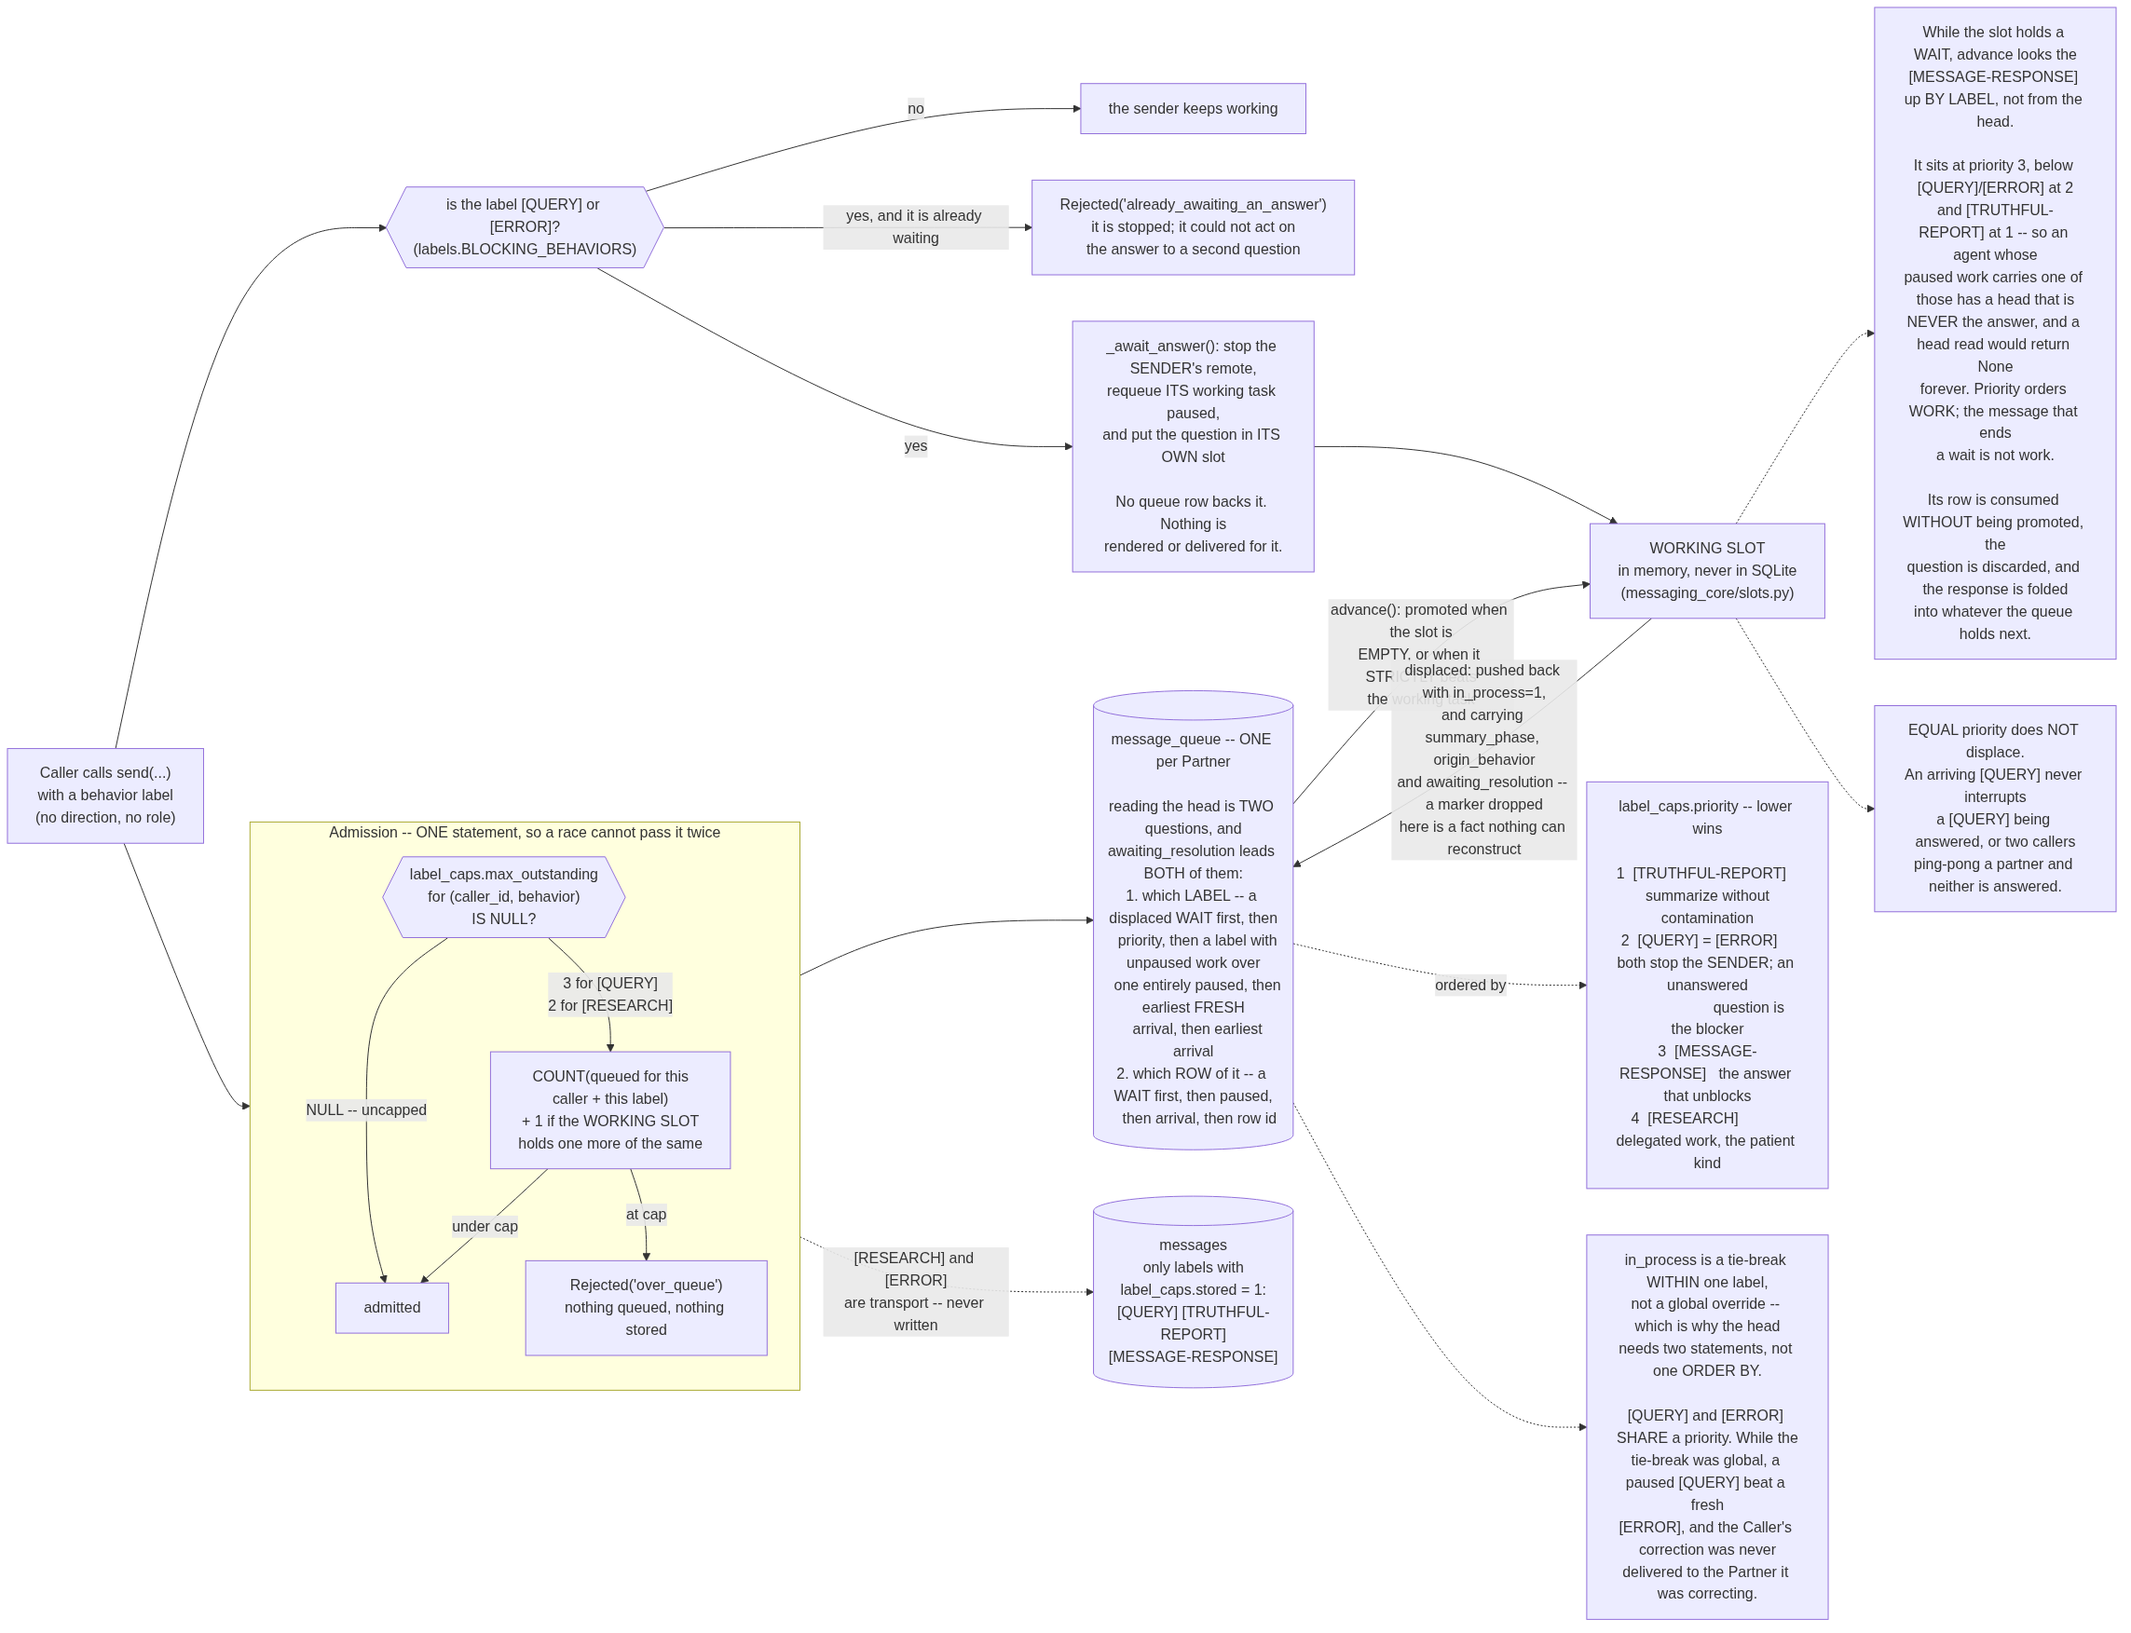
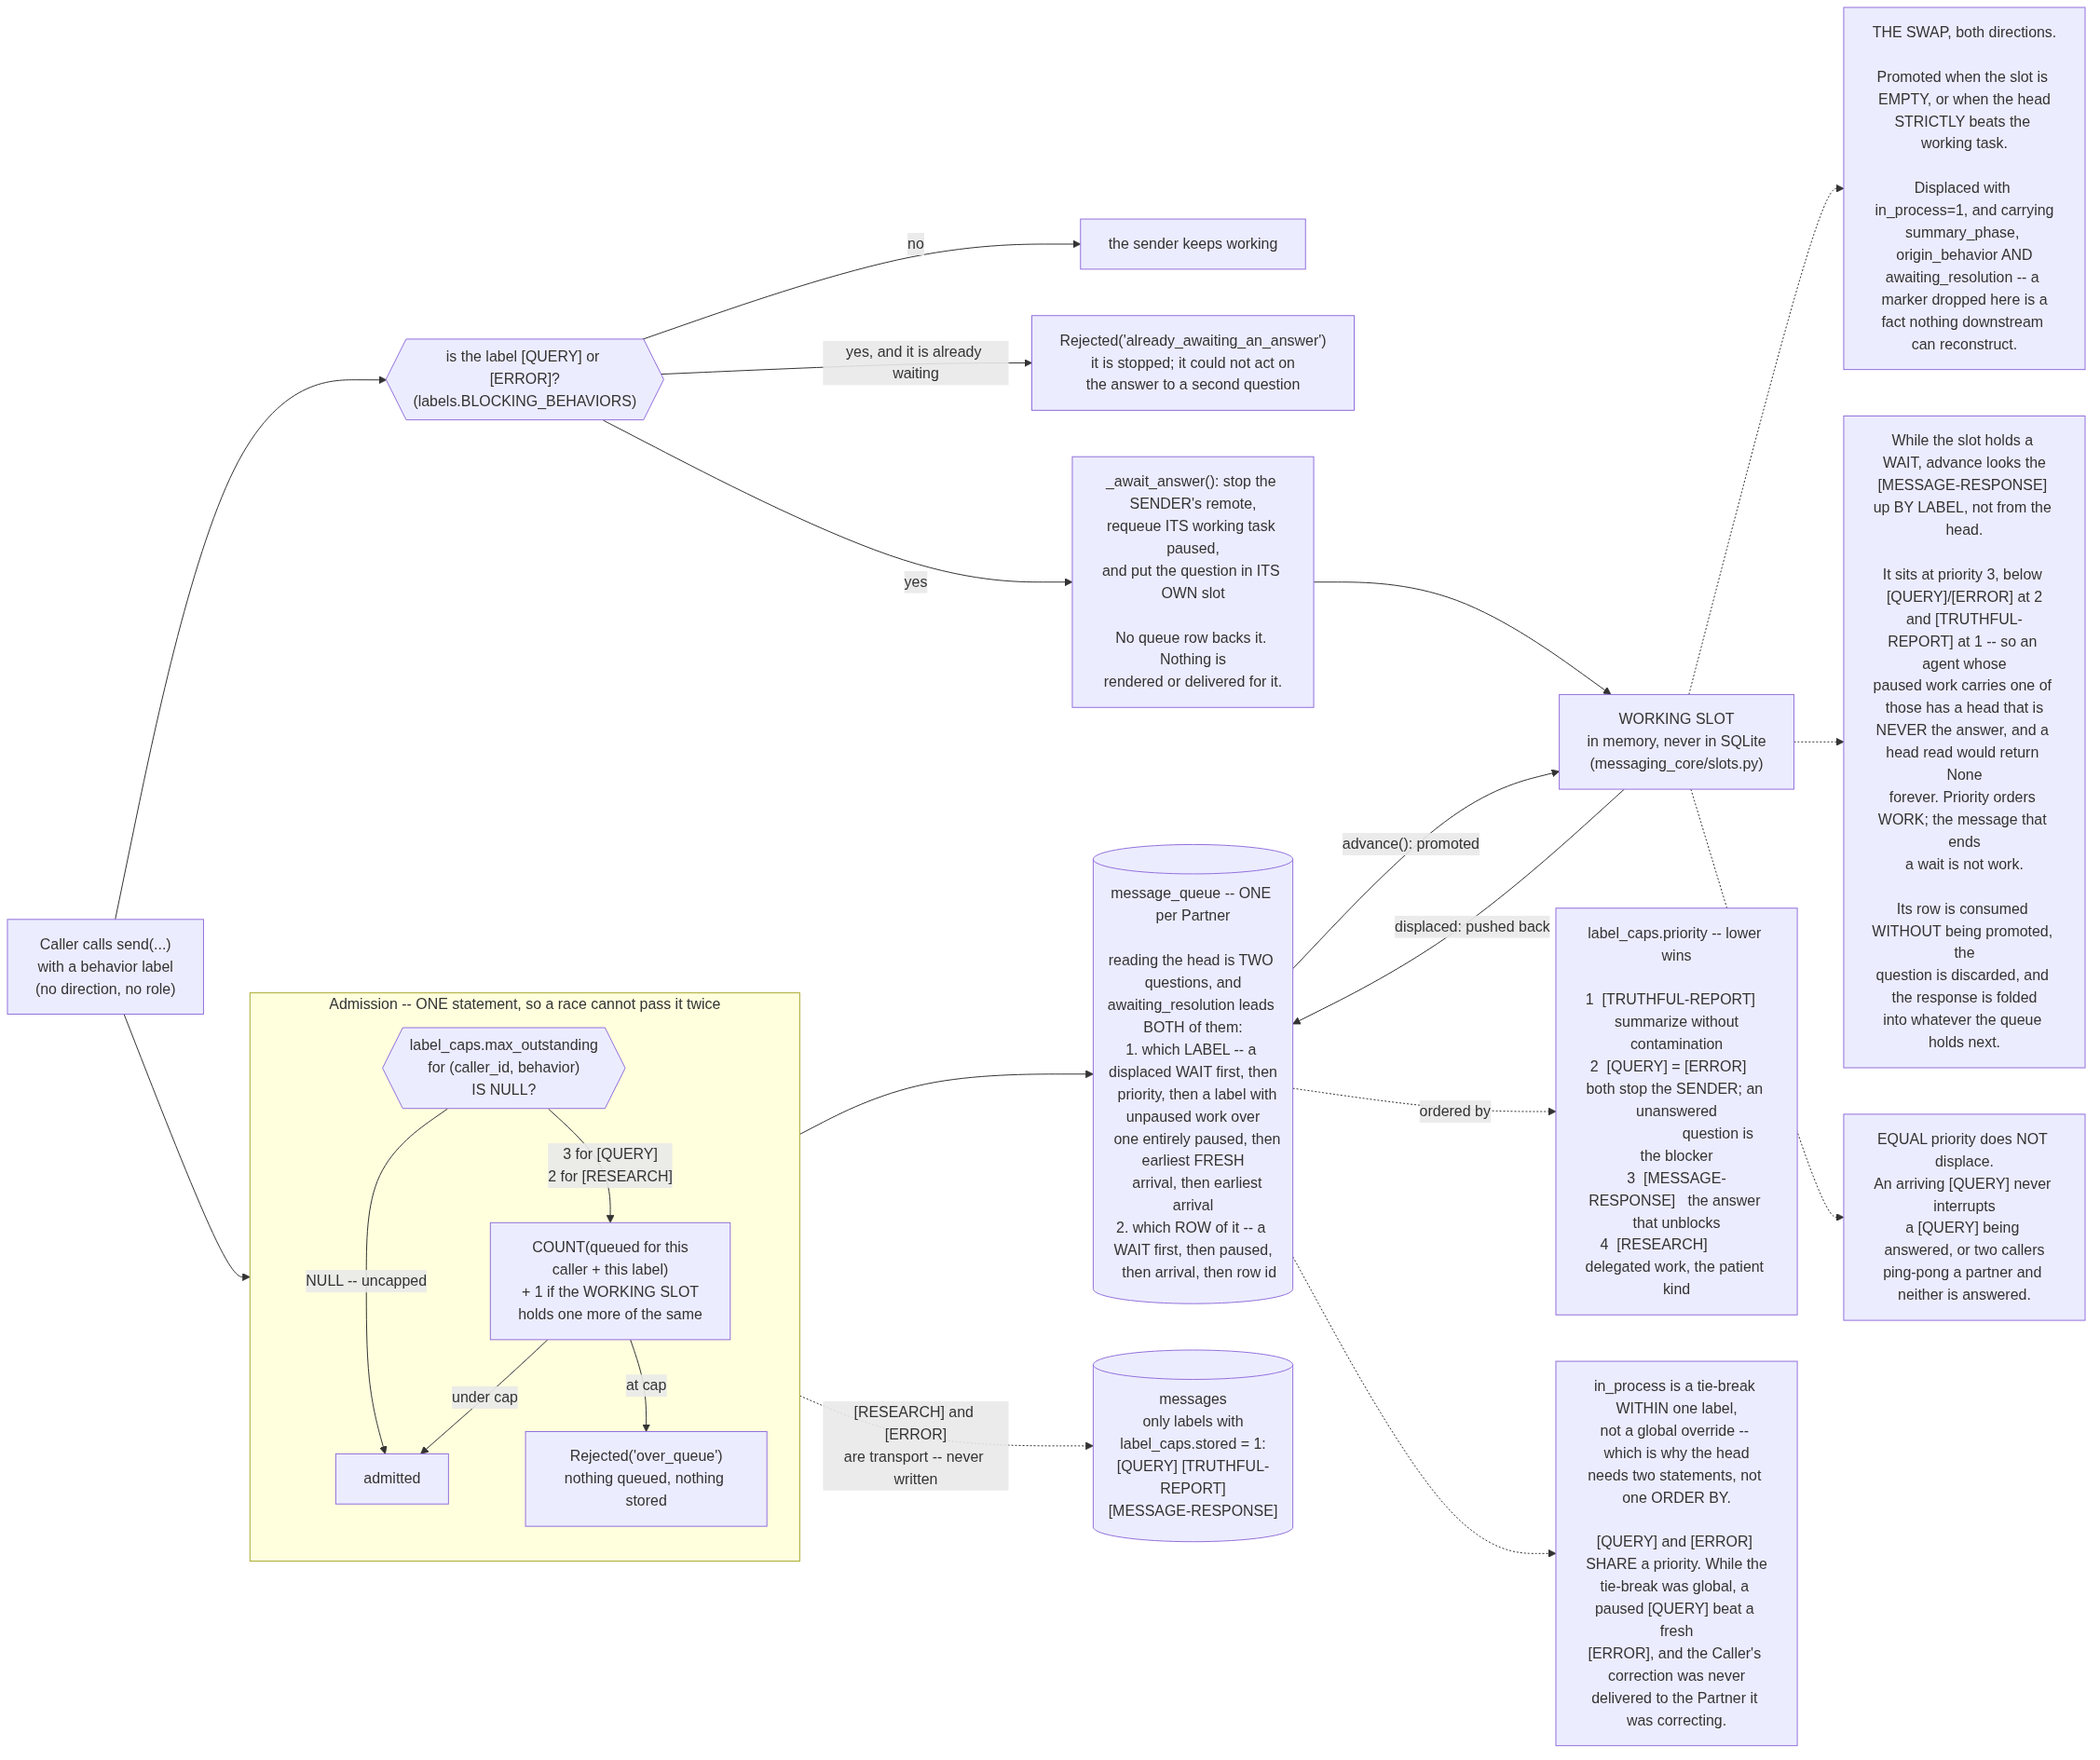
fix: render the vault's diagrams too, and stop a silent Mermaid corruption
Two problems, both found by the user asking why the vault still showed
[IDLE].

The vault has its OWN rendered copies of all ten diagrams, in
Attachments/, at 3x the repo's resolution -- and that is where they are
actually read. Every one was dated Aug 27, before the [IDLE] removal.
05-working-slot still showed "An [IDLE] here is a HOLD", send() /
interrupt_partner(), and "the reply for four of the six labels". I had
rendered visualizations/ and called it done. render-diagrams.sh now
renders both surfaces from one loop, so rendering one and not the other
is no longer something that can happen by accident.

And the first corrected render had four phantom nodes in it, which I put
there: a state-transition label containing semicolons. In a Mermaid
stateDiagram, ';' is a statement separator, so "A --> B : text ; more" is
a transition plus a free-floating state called "more". Mermaid does not
warn -- it exits 0 and renders nonsense.

That invalidates part of how the last commit verified itself: a clean
render is NOT proof a diagram is sound. Now checked by mmd/state-label
(187 checks), which was verified to fail by name and then immediately
caught a real regression when a stray git checkout reverted the fix.

Also swept every flowchart for orphan nodes -- only L1-L11 in 08, which
are unconnected by design -- re-read 05, 04, 06, 07 and 02 at full
resolution, and fixed two overlapping edge labels in 04 that a render
made obvious and no text check could see.
[…]

diff --git a/tests/doc_consistency.py b/tests/doc_consistency.py
@@ -294,7 +294,24 @@ tmpl = {n.name for n in ast.parse(read("messaging_core/templates.py")).body
 for fn in sorted(tmpl):
     check(fn in ALL_DOCS, "templates", f"template {fn}() is documented nowhere")
 
-# 4. A rendered image that disagrees with its source is worse than no image: it
+# 4. A semicolon in a state-diagram transition label silently splits it.
+#    `A --> B : text ; more` is not one label -- `;` is a statement separator, so
+#    "more" becomes a free-floating state with no edges. Mermaid does not warn:
+#    it renders happily and produces a diagram with phantom nodes in it, which is
+#    exactly what happened to 05-working-slot on the first attempt here. A clean
+#    render is NOT proof a diagram is right, so this is checked rather than
+#    eyeballed. Bracketed and quoted labels are safe, which is why this looks
+#    only at the `:` transition form.
+for _name, _text in sorted(MMD.items()):
+    if "stateDiagram" not in _text:
+        continue
+    for _line in _text.splitlines():
+        if "-->" in _line and ":" in _line.split("-->", 1)[1] and ";" in _line:
+            check(False, f"mmd/state-label/{_name}",
+                  "a ';' in a state transition label splits it into phantom "
+                  f"states: {_line.strip()[:80]}")
+
+# 5. A rendered image that disagrees with its source is worse than no image: it
 #    reads as authoritative and it is wrong, and nobody re-reads the .mmd to
 #    check. So a .png older than its .mmd is a failure with a named fix.
 #

diff --git a/codebase-reports/2026-08-28_diagram_sync_report.md b/codebase-reports/2026-08-28_diagram_sync_report.md
@@ -120,3 +120,54 @@ references resolve without editing them, and the diagrams are something a person
 can actually look at. `mmd/rendered` is what stops the image becoming a third
 drifting surface; it skips when a `.png` is absent, because git does not preserve
 mtimes and a check that cries wolf on every clone is one people learn to ignore.
+
+---
+
+## Addendum — the surface I missed, and a defect I introduced
+
+Reported by the user, correctly: the vault still showed `[IDLE]`.
+
+### A third surface
+
+`/mnt/c/Data/Books/Brains/polling-mechanism/Attachments/` holds its own rendered
+PNG of all ten diagrams, at ~3× the resolution of the repo's, and **that is where
+they are actually read** — the repo's `visualizations/*.png` only exists because
+`docs/` links to it. Every one of them was dated Aug 27, before the `[IDLE]`
+removal. `Attachments/05-working-slot.png` still showed "An `[IDLE]` here is a
+HOLD", `send() / interrupt_partner()`, and "the reply for four of the six labels
+is NOTHING".
+
+I had rendered one surface and called the job done. `render-diagrams.sh` now
+renders **both**, every time, from one loop — the repo at scale 1, the vault at
+scale 3, the vault skipped silently when not mounted. Rendering one and not the
+other is precisely how this happened, so the fix is that it is no longer possible
+to do that by accident.
+
+### A defect I introduced, caught only by looking
+
+The first corrected render of `05-working-slot` had four phantom nodes floating
+free of the diagram: `; a`, `summary`, `the full report request again`,
+`NOTHING is rendered or delivered.`
+
+I had written a state-transition label containing semicolons. In a Mermaid
+`stateDiagram`, `;` is a **statement separator** — `A --> B : text ; more` is not
+one label, it is a transition plus a free-floating state called "more". Mermaid
+does not warn. It exits 0 and renders a diagram with nonsense in it.
+
+**So "it renders" is not proof a diagram is correct**, which invalidates part of
+how the first pass verified itself. Two things now cover it:
+
+- `mmd/state-label` fails on a `;` in any state-transition label. Verified to
+  fail by name — and it immediately caught a real regression when a stray
+  `git checkout` reverted the fix mid-session.
+- An orphan-node sweep across every flowchart, run manually this pass: the only
+  unconnected nodes are `L1`–`L11` in `08`, the LOCAL-ONLY capabilities, which
+  are unconnected *by design* because they never touch an extension. Not encoded
+  as a check, because the legitimate exception would need an allowlist that would
+  itself rot.
+
+Every diagram was then re-examined: `05`, `04`, `06`, `07` and `02` read at full
+resolution, the rest covered by the orphan sweep and the text checks. One further
+fix in `04`, where two long labels on edges between the same pair of nodes
+overlapped and occluded each other — the facts moved into a note with room for
+them.

diff --git a/tests/reports/2026-08-28_diagram_sync_test_report.md b/tests/reports/2026-08-28_diagram_sync_test_report.md
@@ -65,3 +65,34 @@ check that a diagram's prose *explains* them correctly, that an arrow points the
 right way, or that branch ordering matches control flow — the `07` ordering
 defect would not have been caught by any of these checks, only by the read. That
 limit is stated in the script's own MANUAL section, which is where it belongs.
+
+---
+
+## Addendum — a seventh check, and the assumption it invalidates
+
+**`mmd/state-label`** (187 checks total). A `;` in a Mermaid state-transition
+label is a statement separator, so the label silently splits and the remainder
+becomes a free-floating state. Mermaid exits 0 and renders it.
+
+This matters beyond the one bug: the first pass treated a clean render as proof
+that a diagram was structurally sound. It is not. A diagram can render perfectly
+and contain phantom nodes.
+
+| Check | Break applied | Failure observed |
+|---|---|---|
+| `mmd/state-label` | appended `; stray` to a transition in `05` | `a ';' in a state transition label splits it into phantom states` |
+
+It then caught a real regression unprompted: a `git checkout` intended to undo the
+deliberate break also reverted the genuine fix, and the check failed on the next
+run rather than letting the broken label reach a commit.
+
+**Orphan-node sweep** — run manually over all seven flowcharts. Only `L1`–`L11`
+in `08-extension-boundary` are unconnected, and correctly so: they are the
+LOCAL-ONLY capabilities, whose whole point is that no edge reaches an extension.
+Deliberately not encoded as a check — the legitimate exception needs an allowlist,
+and an allowlist of intentional orphans is a thing that rots.
+
+**Visual verification.** `05`, `04`, `06`, `07`, `02` read at full resolution
+after rendering. This is the only method that catches layout collisions, and it
+found one: two long edge labels in `04` occluding each other between the same
+pair of nodes.
